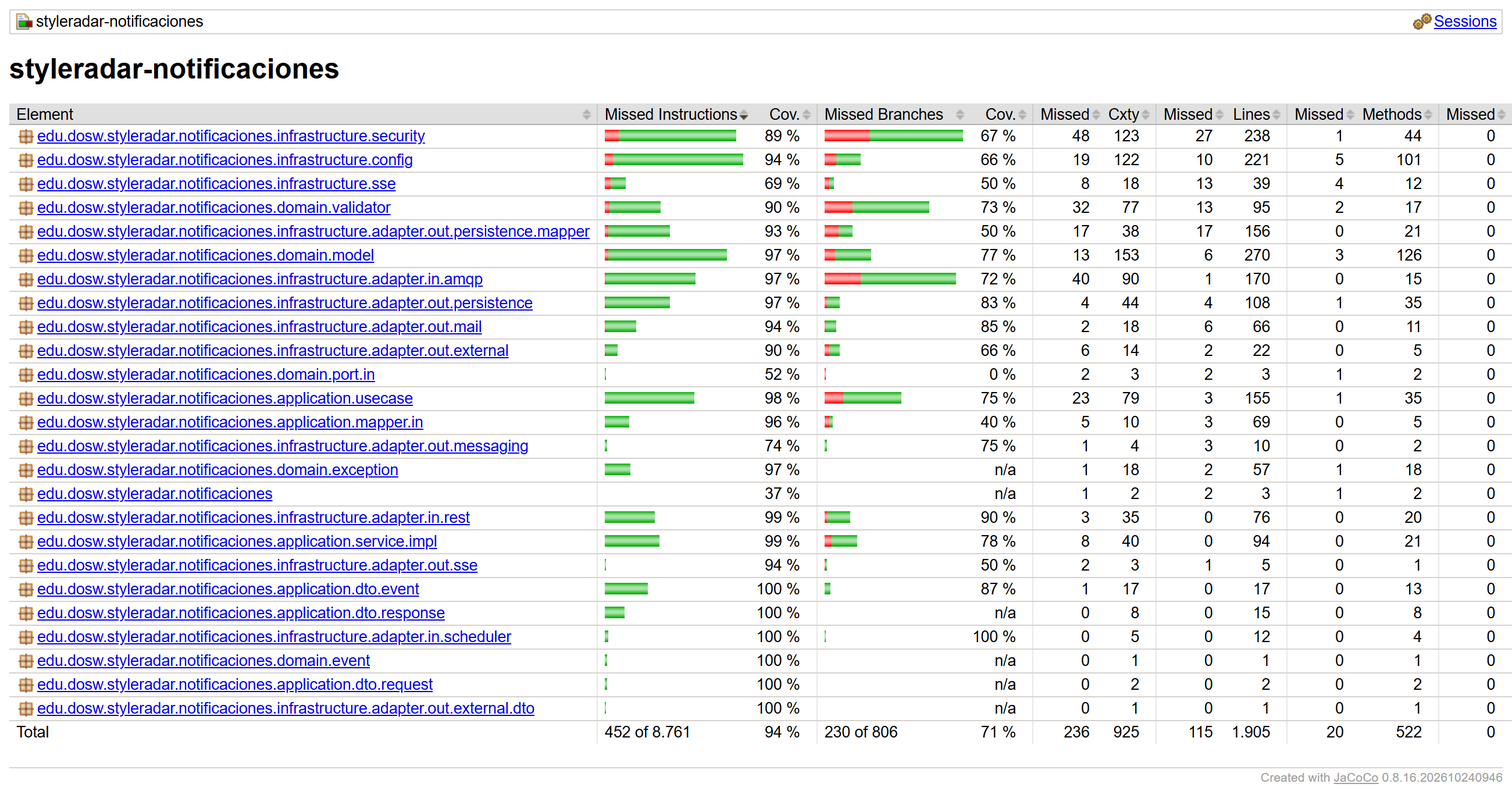
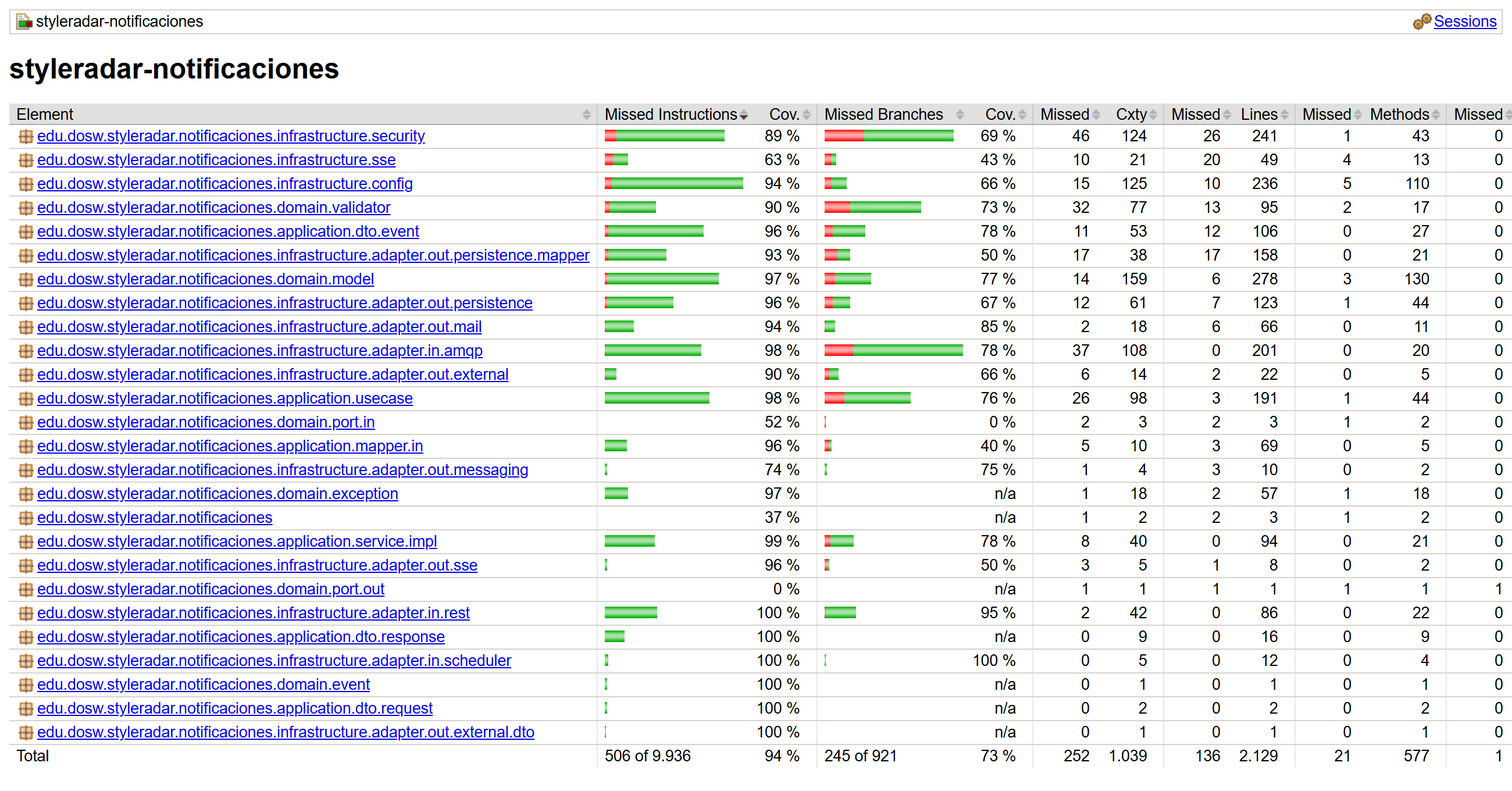
docs(readme): ajustar el README al orden oficial de 12 secciones y crear la seccion de seguridad
Reordena docs/readme al orden oficial, crea la seccion 11 de Seguridad, Habeas Data y OWASP sin declarar certificacion, une equipo y Jira en la 12, unifica el nombre visible ms-Notifications, corrige el texto de portada, declara Maven 3.9+ y Java 21, agrega SR-RF-107 y SR-RF-108 a la tabla de requerimientos y alinea las cifras de cobertura con una sola ejecucion de JaCoCo.

diff --git a/src/test/java/edu/dosw/styleradar/notificaciones/integration/adapter/in/rest/ContratoSwaggerAlineadoTest.java b/src/test/java/edu/dosw/styleradar/notificaciones/integration/adapter/in/rest/ContratoSwaggerAlineadoTest.java
@@ -63,7 +63,7 @@ class ContratoSwaggerAlineadoTest {
         contrato.get("paths").fields().forEachRemaining(ruta -> ruta.getValue().fieldNames()
                 .forEachRemaining(metodo -> swagger.add(metodo.toUpperCase() + " " + ruta.getKey())));
 
-        String readme = Files.readString(Path.of("docs/readme/04-endpoints-y-swagger.md"), StandardCharsets.UTF_8);
+        String readme = Files.readString(Path.of("docs/readme/03-endpoints-y-swagger.md"), StandardCharsets.UTF_8);
         Set<String> documentadas = new HashSet<>();
         Matcher fila = FILA_README.matcher(readme);
         while (fila.find()) {
@@ -76,7 +76,7 @@ class ContratoSwaggerAlineadoTest {
     @Test
     @DisplayName("Los codigos HTTP de cada ruta del README son los del Swagger")
     void codigosDelReadmeIgualesALosDelSwagger() throws Exception {
-        String readme = Files.readString(Path.of("docs/readme/04-endpoints-y-swagger.md"), StandardCharsets.UTF_8);
+        String readme = Files.readString(Path.of("docs/readme/03-endpoints-y-swagger.md"), StandardCharsets.UTF_8);
         Pattern fila = Pattern.compile("\\|\\s*`(GET|POST|PUT|PATCH|DELETE)`\\s*\\|\\s*`(/api/v1/users/[^`]+)`[^\\r\\n]*\\|\\s*((?:`\\d{3}`(?:,\\s*)?)+)\\s*\\|");
         Matcher m = fila.matcher(readme);
         int comprobadas = 0;

diff --git a/docs/readme/11-seguridad-habeas-data-y-owasp.md b/docs/readme/11-seguridad-habeas-data-y-owasp.md
@@ -1,0 +1,66 @@
+[← Volver al índice](../../README.md) · [Todos los README](./)
+
+
+## <img src="https://img.shields.io/badge/11-5600EF?style=for-the-badge" height="20" align="absmiddle" /> 11. SEGURIDAD, HABEAS DATA Y ANÁLISIS OWASP TOP 10
+
+Esta sección describe los controles de seguridad que **están implementados** en `ms-Notifications`, los datos personales que trata y lo que **todavía falta**. Es una revisión del equipo basada en el código y las pruebas del repositorio: **no es una certificación OWASP ni un dictamen jurídico**, y no garantiza ausencia de vulnerabilidades.
+
+### 11.1 Controles implementados
+
+| Área | Control | Dónde se ve |
+| :--- | :--- | :--- |
+| **Autenticación** | `ms-Notifications` no emite tokens: valida el JWT de `ms-Auth` (firma `HS256` con clave compartida en `JWT_SECRET`, vencimiento `exp`). El servicio no arranca sin esa clave. Sin token, vencido, con otra firma o manipulado responde `401`. | [Contrato JWT](../CONTRATO_JWT_AUTENTICACION.md), `SeguridadJwtHttpTest`, `JwtSecretConfigurationTest` |
+| **Autorización por usuario** | El `{id}` de la ruta debe coincidir con el usuario del token; si no coincide responde `403`, salvo el rol administrador de StyleRadar. El alias `me` no se acepta (`403`). Una notificación o alerta de otro usuario no se puede ver, marcar ni eliminar. | `SeguridadJwtHttpTest`, `AlertaControllerAndInfrastructureTest` |
+| **Ticket SSE de corta duración** | El navegador no puede enviar cabeceras con `EventSource`, así que el stream se abre con un ticket de **60 segundos** que solo sirve para ese stream. Un JWT de sesión en `?ticket=` o `?access_token=` se rechaza: el JWT nunca viaja en la URL. | `TicketStreamHttpTest`, [sección 3](03-endpoints-y-swagger.md) |
+| **Límite de solicitudes (429)** | Ventana de un minuto: **120 solicitudes por usuario** (`RATE_LIMIT_PER_MINUTE`); lo que llega sin autenticar se cuenta por IP. Al pasarse responde `429`. | `LimiteDeSolicitudesHttpTest`, `RateLimitFilter` |
+| **Swagger apagado en PROD** | `SWAGGER_ENABLED=false` por defecto en el perfil de producción: no se exponen `/swagger-ui` ni `/v3/api-docs`. | `application-prod.yml` |
+| **Métricas protegidas** | `/actuator/metrics/**` y `/actuator/prometheus` solo para administradores; `/actuator/health` es público para el chequeo de Azure. | `SecurityConfig`, `MetricasActuatorHttpTest` |
+| **CORS y CSRF** | Con `CORS_ALLOWED_ORIGINS` vacío (QA y PROD) las cabeceras CORS las emite solo el API Gateway. La API es sin estado (JWT en cabecera, sin cookies ni sesión), por lo que se exime de CSRF únicamente `/api/**`. | `SecurityConfig`, `CorsHttpTest` |
+| **Mensajería** | Conexión TLS (AMQPS, puerto 5671) al broker central; el certificado raíz de StyleRadar se importa en la imagen. Un payload inválido va directo a la cola de errores sin reintentos. | `Dockerfile`, [sección 4](04-eventos.md) |
+| **Errores** | Las respuestas de error usan `ProblemDetail` con códigos de error estables. | `CodigosDeErrorHttpTest` |
+| **Cadena de suministro** | Dependabot revisa cada semana Maven, GitHub Actions y la imagen base; CodeQL analiza el código en cada PR a `develop` y cada lunes. Esto detecta problemas, **no garantiza cero vulnerabilidades**. | `.github/dependabot.yml`, `.github/workflows/codeql.yml` |
+| **Imagen** | Se ejecuta con un usuario sin privilegios (`appuser`) y con la misma versión de Java que el resto del ciclo (Java 21). | `Dockerfile` |
+
+### 11.2 Habeas Data: datos personales que trata el servicio
+
+El tratamiento de datos personales en Colombia se rige por la **Ley 1581 de 2012** (Habeas Data). El servicio no pide datos al usuario por su cuenta: recibe del resto de la plataforma lo mínimo para avisarle, y el consentimiento y la autorización del titular se gestionan en `ms-Users`.
+
+| Dato | Dónde se guarda | Para qué | Qué pasa al eliminar la cuenta |
+| :--- | :--- | :--- | :--- |
+| Identificador del usuario | Alertas, notificaciones, preferencias, búsquedas | Saber a quién avisar | Se borra todo lo asociado |
+| Correo electrónico | `estados_cuenta_copia` (copia del estado de cuenta) y `correos_pendientes` (destinatario, asunto y cuerpo de los reintentos) | Enviar avisos por correo | Se borran los correos pendientes y el correo de la copia queda vacío |
+| Contenido de las notificaciones | `notificaciones` (título, mensaje y enlace; puede incluir la vista previa de un mensaje de chat o el nombre de una prenda) | Mostrar la bandeja | Se borran |
+| Alertas, búsquedas guardadas y preferencias de aviso | `alertas`, `busquedas_guardadas_copia`, `preferencias_avisos` | Detectar coincidencias y elegir el canal | Se borran |
+
+Cómo se atienden los derechos del titular hoy:
+
+- **Supresión:** cuando `ms-Users` elimina una cuenta publica `styleradar.usuarios.cuenta.eliminada`. El servicio borra los datos de arriba, cierra la conexión en tiempo real del usuario y deja su cuenta marcada como `ELIMINADA` sin correo, para que un evento tardío no le genere avisos (SR-RF-107).
+- **Eliminación por el propio usuario:** puede eliminar una, varias o todas sus notificaciones leídas (SR-RF-108). Es un borrado lógico: la fila se conserva sin mostrarse.
+- **Acceso:** el usuario consulta sus propias alertas, notificaciones y preferencias con la API.
+- **Minimización:** el evento `AlertaCreada` que consume `ms-Statistics` lleva identificadores (alerta, usuario, prenda), no el correo ni el contenido de los mensajes.
+
+### 11.3 Mapa OWASP Top 10 (2021)
+
+| Categoría | Estado | Qué hay y qué falta |
+| :--- | :---: | :--- |
+| **A01** Control de acceso roto | Implementado | `{id}` contra el token, comprobación de propietario en cada alerta y notificación, métricas solo para administradores. |
+| **A02** Fallos criptográficos | Parcial | Firma `HS256` con clave por variable de entorno y TLS al broker; HTTPS lo termina Azure App Service. Falta verificar cifrado en reposo de la base de datos (depende de Azure). |
+| **A03** Inyección | Implementado | JPA con consultas parametrizadas y validación de entrada en los DTO (`@Valid`, `@Size`, `@Positive`). |
+| **A04** Diseño inseguro | Parcial | Límite de solicitudes, ticket SSE de 60 s e idempotencia de eventos con cola de errores. Sin modelado de amenazas formal. |
+| **A05** Configuración incorrecta | Parcial | Swagger apagado en PROD, CORS delegado al Gateway, secretos por variables de entorno. Pendiente rotar las credenciales del broker y restringir su acceso de administración. |
+| **A06** Componentes vulnerables | Parcial | Dependabot y CodeQL activos. No hay escaneo de la imagen de contenedor. |
+| **A07** Fallos de autenticación | Parcial | Se valida firma y vencimiento; la emisión, el cierre de sesión y la protección de credenciales son de `ms-Auth`. |
+| **A08** Integridad de software y datos | Parcial | Payloads de eventos validados y CI con pruebas obligatorias. Sin firma de artefactos. |
+| **A09** Registro y monitoreo | Parcial | Métricas Prometheus protegidas y registros con ids de usuario y evento (en el código revisado no se registran tokens). No hay auditoría centralizada ni alertas de seguridad. |
+| **A10** SSRF | Implementado | La única llamada HTTP saliente es a `ms-ItemCatalog` con una URL fija de configuración (`CATALOG_SERVICE_URL`); no se acepta ninguna URL del usuario. |
+
+### 11.4 Riesgos y pendientes
+
+- **Retención de datos:** no hay purga automática. Las notificaciones eliminadas por el usuario se conservan con su fecha de eliminación y los datos del servicio no tienen un plazo máximo definido.
+- **Derecho de acceso completo:** no existe una exportación de todos los datos de un usuario; solo se pueden consultar por la API.
+- **Clave compartida `HS256`:** cualquier servicio que conozca `JWT_SECRET` podría firmar tokens. Pendiente definir la rotación de la clave y evaluar una firma asimétrica junto con `ms-Auth`.
+- **Credenciales del broker:** rotar la contraseña administrativa de RabbitMQ y cerrar el acceso SSH de su red (tarea operativa, fuera de este repositorio).
+- **Alertas de CodeQL:** revisar en la pestaña Security que la alerta de CSRF quede cerrada tras exceptuar solo `/api/**`.
+- **Registros y base de datos:** falta una auditoría formal de logs y confirmar el cifrado en reposo y las copias de seguridad.
+- **Pruebas de seguridad:** no se ha hecho una prueba de penetración independiente.
+- **Redis:** `docker-compose.yml` levanta Redis, pero el servicio no lo usa (SSE en memoria). Mientras no se decida retirarlo, se documenta como dependencia local no usada.

diff --git a/README.md b/README.md
@@ -4,7 +4,7 @@
     <img src="https://raw.githubusercontent.com/JUANNICOLASA/Frontend-Style-Radar/main/styleradar-frontend-v3/assets/logo/styleradar-logo.svg" width="340" alt="StyleRadar Logo Oficial" />
   </a>
 
-  <h1>STYLE<font color="#5600EF">RADAR</font> &nbsp;·&nbsp; <code>GJ-Notification-Service</code></h1>
+  <h1>STYLE<font color="#5600EF">RADAR</font> &nbsp;·&nbsp; <code>ms-Notifications</code></h1>
 
   <p align="center">
     <img src="https://img.shields.io/badge/EQUIPO-Guatoque_Jiraguas_(GJ)-12063A?style=for-the-badge" alt="Equipo" />
@@ -19,29 +19,29 @@
 
   <p align="center">
     <strong><font color="#5600EF">Descubre tu estilo. En tu ciudad.</font></strong><br />
-    <em>Plataforma de moda local con inventario multi-sede geolocalizado en tiempo real y probador virtual para Bogotá.</em>
+    <em>Servicio de notificaciones y alertas de StyleRadar: avisa cuando una prenda vuelve a estar disponible o coincide con una búsqueda guardada y de la actividad de otros módulos, con bandeja, tiempo real por SSE, correo y consumo y publicación de eventos.</em>
   </p>
 
   <p align="center">
     <a href="https://github.com/StyleRadar1/GJ-Notification-Service/actions/workflows/ci-qa.yml">
       <img src="https://github.com/StyleRadar1/GJ-Notification-Service/actions/workflows/ci-qa.yml/badge.svg?branch=develop" alt="CI / QA Pipeline Status" />
     </a>
-    <a href="docs/readme/04-endpoints-y-swagger.md">
+    <a href="docs/readme/03-endpoints-y-swagger.md">
       <img src="https://img.shields.io/badge/Swagger_UI-ms--Notifications_(:8300)-5600EF?style=for-the-badge&logo=swagger&logoColor=white" alt="Swagger UI ms-Notifications" />
     </a>
-    <a href="docs/readme/04-endpoints-y-swagger.md">
+    <a href="docs/readme/03-endpoints-y-swagger.md">
       <img src="https://img.shields.io/badge/OpenAPI-3.0-16A34A?style=for-the-badge&logo=openapi-initiative&logoColor=white" alt="OpenAPI 3.0" />
     </a>
     <a href="target/site/jacoco/index.html">
       <img src="https://img.shields.io/badge/JaCoCo_Coverage-%E2%89%A5_85%25-16A34A?style=for-the-badge&logo=codecov&logoColor=white" alt="Coverage" />
     </a>
-    <a href="docs/readme/06-tecnologias-y-dependencias.md">
+    <a href="docs/readme/05-tecnologias-y-dependencias.md">
       <img src="https://img.shields.io/badge/Java-21_LTS-12063A?style=for-the-badge&logo=openjdk&logoColor=C4B5FD" alt="Java 21" />
     </a>
-    <a href="docs/readme/06-tecnologias-y-dependencias.md">
+    <a href="docs/readme/05-tecnologias-y-dependencias.md">
       <img src="https://img.shields.io/badge/Spring_Boot-3.5.x-12063A?style=for-the-badge&logo=spring&logoColor=C4B5FD" alt="Spring Boot 3.5" />
     </a>
-    <a href="docs/readme/07-ejecucion-local-y-docker.md">
+    <a href="docs/readme/06-ejecucion-local-y-docker.md">
       <img src="https://img.shields.io/badge/Docker-OCI_Container-12063A?style=for-the-badge&logo=docker&logoColor=C4B5FD" alt="Docker OCI" />
     </a>
   </p>
@@ -54,14 +54,14 @@
 ## <img src="https://img.shields.io/badge/ÍNDICE-5600EF?style=for-the-badge" height="20" align="absmiddle" /> ÍNDICE DE CONTENIDOS
 
 1. [Nombre del servicio y su bounded context](docs/readme/01-nombre-y-bounded-context.md)
-2. [Equipo y responsables](docs/readme/02-equipo-y-responsables.md)
-3. [Arquitectura hexagonal con su diagrama](docs/readme/03-arquitectura-hexagonal.md)
-4. [Endpoints y enlace a Swagger](docs/readme/04-endpoints-y-swagger.md)
-5. [Eventos que publica y consume](docs/readme/05-eventos.md)
-6. [Tecnologías y dependencias](docs/readme/06-tecnologias-y-dependencias.md)
-7. [Cómo ejecutar local y con Docker](docs/readme/07-ejecucion-local-y-docker.md)
-8. [Variables de entorno](docs/readme/08-variables-de-entorno.md)
-9. [Pruebas y cobertura](docs/readme/09-pruebas-y-cobertura.md)
-10. [CI/CD con el badge del pipeline](docs/readme/10-ci-cd.md)
-11. [Ramas y cómo contribuir](docs/readme/11-ramas-y-contribucion.md)
-12. [Enlace a la épica en Jira](docs/readme/12-epica-jira.md)
+2. [Arquitectura hexagonal con sus diagramas](docs/readme/02-arquitectura-hexagonal.md)
+3. [Endpoints y enlace a Swagger](docs/readme/03-endpoints-y-swagger.md)
+4. [Eventos que publica y consume](docs/readme/04-eventos.md)
+5. [Tecnologías y dependencias](docs/readme/05-tecnologias-y-dependencias.md)
+6. [Cómo ejecutar local y con Docker](docs/readme/06-ejecucion-local-y-docker.md)
+7. [Variables de entorno](docs/readme/07-variables-de-entorno.md)
+8. [Pruebas y cobertura](docs/readme/08-pruebas-y-cobertura.md)
+9. [CI/CD con el badge del pipeline](docs/readme/09-ci-cd.md)
+10. [Ramas y cómo contribuir](docs/readme/10-ramas-y-contribucion.md)
+11. [Seguridad, Habeas Data y análisis OWASP Top 10](docs/readme/11-seguridad-habeas-data-y-owasp.md)
+12. [Equipo, responsables y enlace a la épica en Jira](docs/readme/12-equipo-responsables-y-epica-jira.md)

diff --git a/docs/readme/12-equipo-responsables-y-epica-jira.md b/docs/readme/12-equipo-responsables-y-epica-jira.md
@@ -1,7 +1,23 @@
 [← Volver al índice](../../README.md) · [Todos los README](./)
 
 
-## <img src="https://img.shields.io/badge/12-5600EF?style=for-the-badge" height="20" align="absmiddle" /> 12. ENLACE A LA ÉPICA EN JIRA
+## <img src="https://img.shields.io/badge/12-5600EF?style=for-the-badge" height="20" align="absmiddle" /> 12. EQUIPO, RESPONSABLES Y ENLACE A LA ÉPICA EN JIRA
+
+### Equipo y responsables
+
+Desarrollado y mantenido por el **Squad `Paquete 3 · Notificaciones y Chat`** para la asignatura DOSW 2026.
+
+<div align="center">
+
+| Rol | Nombre Completo |
+| :---: | :---: |
+| **Líder de Squad** | `Paula Diaz` |
+| **Líder de Backend** | `Jose Martinez` |
+| **Desarrollo Microservicio Notificaciones** | `Oscar Lasso` |
+
+</div>
+
+### Enlace a la épica en Jira
 
 El seguimiento de requerimientos, evidencias y artefactos de entrega se centraliza en los siguientes enlaces oficiales:
 
@@ -42,4 +58,6 @@ Los actores son los cuatro oficiales y se muestran en el [diagrama de casos de u
 | `SR-RF-104` | Consultar la bandeja de notificaciones | Usuario comprador, administrador de almacén y representante de fundación aliada | Permite listar con paginación (`page`, `size`) y filtro único `read` (`true` leídas, `false` no leídas), contar no leídas, marcar como leída (individual/todas) y abrir el stream SSE mediante ticket de 60 s (`POST /stream-ticket`) con reconexión `Last-Event-ID` (NOT-12, NOT-13, NOT-15, GJ-62, GJ-118). |
 | `SR-RF-105` | Elegir el canal de cada tipo de aviso | Usuario comprador, administrador de almacén y representante de fundación aliada | Permite consultar y elegir por cada uno de los 9 valores de `TipoNotificacion` entre `SOLO_PLATAFORMA` (por defecto) y `CORREO_Y_PLATAFORMA` (GJ-64). |
 | `SR-RF-106` | Avisar la actividad de otros módulos | Usuario comprador, administrador de almacén y representante de fundación aliada (lo origina también el administrador StyleRadar) | Genera notificaciones idempotentes por `(evento_id, usuario_id)` al recibir eventos de `ms-Chat`, `ms-Donations`, `ms-ItemCatalog`, `ms-Payment` y `ms-Stores` (fundación desactivada), excluyendo cuentas en estado `INACTIVO`, `BLOQUEADO` o `SUSPENDIDO` (NOT-09, NOT-14, GJ-61, GJ-65, GJ-117). |
+| `SR-RF-107` | Limpiar las notificaciones al eliminar una cuenta o retirar una prenda | Usuario comprador (lo originan `ms-Users` y `ms-ItemCatalog`) | Al llegar `styleradar.usuarios.cuenta.eliminada` se borran las notificaciones, alertas, preferencias, correos pendientes y búsquedas del usuario, se cierra su campana y su cuenta queda `ELIMINADA` sin correo. Al retirar una prenda se desactivan sus alertas, se borran las notificaciones no leídas de reposición y coincidencia y se quita el enlace a las leídas. Ambos procesos son idempotentes. |
+| `SR-RF-108` | Eliminar notificaciones de la bandeja | Usuario comprador, administrador de almacén y representante de fundación aliada | Elimina una notificación (`DELETE .../notifications/{notificationId}`, `204`), varias (`?ids=1,2,3`, hasta 100) o todas las leídas (`?read=true`). Borrado lógico: deja de aparecer en la lista, el contador y el stream. Una segunda eliminación responde `404` y la de otro usuario `403`. |
 | `SR-RNF-15` | Resiliencia e idempotencia en consumidores de eventos | No aplica (requerimiento no funcional) | 3 entregas totales con backoff ante fallos transitorios, rechazo inmediato sin reencolar hacia `styleradar.notificaciones.dlq` ante payloads inválidos, restricciones únicas en PostgreSQL 16 y errores HTTP con campo `code` estable (`CodigoError`). |

diff --git a/docs/readme/08-pruebas-y-cobertura.md b/docs/readme/08-pruebas-y-cobertura.md
@@ -1,7 +1,7 @@
 [← Volver al índice](../../README.md) · [Todos los README](./)
 
 
-## <img src="https://img.shields.io/badge/09-5600EF?style=for-the-badge" height="20" align="absmiddle" /> 9. PRUEBAS Y COBERTURA (≥ 85%)
+## <img src="https://img.shields.io/badge/08-5600EF?style=for-the-badge" height="20" align="absmiddle" /> 8. PRUEBAS Y COBERTURA (≥ 85%)
 
 El proyecto exige una cobertura de líneas mínima del **85%** verificada automáticamente mediante el plugin de **JaCoCo** durante `mvn verify`.
 
@@ -22,7 +22,7 @@ mvn jacoco:report
 </p>
 
 <p align="center">
-  <sub>Reporte real de JaCoCo 0.8.16 (<code>target/site/jacoco/index.html</code>) generado con <code>mvn clean verify</code> el 20/11/2026: 94 % de instrucciones, 71 % de ramas y 1.905 líneas medidas, de las que 115 quedan sin cubrir (94,0 % de líneas).</sub>
+  <sub>Reporte real de JaCoCo 0.8.16 (<code>target/site/jacoco/index.html</code>) generado con <code>mvn verify</code> el 25/11/2026 sobre <code>develop</code> (commit <code>bb48f1c</code>): 94 % de instrucciones, 73 % de ramas y 2.129 líneas medidas, de las que 136 quedan sin cubrir (93,6 % de líneas).</sub>
 </p>
 
 
@@ -35,7 +35,7 @@ mvn jacoco:report
 | **Pruebas de Integración y Contrato** | Controladores REST, Seguridad JWT, Flyway, Repositorios JPA, Consumidores AMQP, SSE y correo | Spring Boot Test, MockMvc, H2 PostgreSQL Mode, GreenMail | `src/test/java/.../integration/` | ≥ 85% |
 | **Pruebas con RabbitMQ real** | Publicación de `AlertaCreada` y consumo de eventos contra un broker real | Testcontainers (requieren Docker; en un equipo sin Docker se omiten y las corre el CI) | `src/test/java/.../integration/messaging/` | — |
 
-Estado actual (24/11/2026): **324 pruebas ejecutadas, 0 fallos y 0 errores; cobertura de líneas 93,6 %** (2.123 líneas medidas, 136 sin cubrir; el mínimo exigido es 85 %). Hay 14 pruebas que necesitan Docker (Testcontainers con RabbitMQ y PostgreSQL reales): en un equipo sin Docker se omiten y las ejecuta el CI.
+Estado actual (25/11/2026, la misma ejecución de la captura): **325 pruebas, 0 fallos y 0 errores; cobertura de líneas 93,6 %** (2.129 líneas medidas, 136 sin cubrir; el mínimo exigido es 85 %). Hay 14 pruebas que necesitan Docker (Testcontainers con RabbitMQ y PostgreSQL reales): en un equipo sin Docker se omiten y las ejecuta el CI.
 
 ### Pruebas de Arquitectura Hexagonal (ArchUnit)
 

diff --git a/docs/readme/06-ejecucion-local-y-docker.md b/docs/readme/06-ejecucion-local-y-docker.md
@@ -1,12 +1,12 @@
 [← Volver al índice](../../README.md) · [Todos los README](./)
 
 
-## <img src="https://img.shields.io/badge/07-5600EF?style=for-the-badge" height="20" align="absmiddle" /> 7. CÓMO EJECUTAR LOCAL Y CON DOCKER
+## <img src="https://img.shields.io/badge/06-5600EF?style=for-the-badge" height="20" align="absmiddle" /> 6. CÓMO EJECUTAR LOCAL Y CON DOCKER
 
 ### Prerrequisitos de Entorno
 
-* **Java Development Kit (JDK):** Versión 21 LTS instalada (`java -version`).
-* **Apache Maven:** Versión 3.9+ instalada (`mvn -version`).
+* **Java Development Kit (JDK):** Versión 21 LTS instalada (`java -version`). Es la misma versión del `pom.xml`, de los workflows y de la imagen Docker.
+* **Apache Maven:** Versión 3.9+ instalada (`mvn -version`). El repositorio no incluye Maven Wrapper (`mvnw`), así que todos los comandos usan `mvn`.
 * **Docker Engine & Docker Compose:** Versión 24+ en ejecución (`docker --version`).
 
 ### Ejecución Local con Maven (Perfil Dev)
@@ -55,7 +55,7 @@ curl -s http://localhost:8300/actuator/health
 # Esperado: {"status":"UP"}
 ```
 
-Una vez arriba, Swagger UI queda en `http://localhost:8300/swagger-ui/index.html` y las pruebas se corren como se explica en la [sección 9](09-pruebas-y-cobertura.md).
+Una vez arriba, Swagger UI queda en `http://localhost:8300/swagger-ui/index.html` y las pruebas se corren como se explica en la [sección 8](08-pruebas-y-cobertura.md).
 
 ### Comprobación de salud en QA
 

diff --git a/docs/readme/02-arquitectura-hexagonal.md b/docs/readme/02-arquitectura-hexagonal.md
@@ -1,7 +1,7 @@
 [← Volver al índice](../../README.md) · [Todos los README](./)
 
 
-## <img src="https://img.shields.io/badge/03-5600EF?style=for-the-badge" height="20" align="absmiddle" /> 3. ARQUITECTURA HEXAGONAL CON SU DIAGRAMA
+## <img src="https://img.shields.io/badge/02-5600EF?style=for-the-badge" height="20" align="absmiddle" /> 2. ARQUITECTURA HEXAGONAL CON SUS DIAGRAMAS
 
 El microservicio implementa **Arquitectura Hexagonal (Puertos y Adaptadores)** combinada con **Domain-Driven Design (DDD)**. El núcleo de negocio permanece 100% puro y aislado de frameworks, bases de datos o brokers de mensajería.
 
@@ -201,7 +201,7 @@ flowchart LR
 
 ### Verificación automática de la arquitectura
 
-Las reglas del hexágono (el dominio sin frameworks, la aplicación sin infraestructura, puertos como interfaces y adaptadores aislados) se comprueban con ArchUnit en `ArquitecturaHexagonalTest`, que se ejecuta en cada `mvn verify` y en el CI. El detalle de las 12 reglas está en [9. Pruebas y cobertura](./09-pruebas-y-cobertura.md).
+Las reglas del hexágono (el dominio sin frameworks, la aplicación sin infraestructura, puertos como interfaces y adaptadores aislados) se comprueban con ArchUnit en `ArquitecturaHexagonalTest`, que se ejecuta en cada `mvn verify` y en el CI. El detalle de las 12 reglas está en [8. Pruebas y cobertura](./08-pruebas-y-cobertura.md).
 
 ### Estructura Oficial de Paquetes en `src/main/java/`
 

diff --git a/docs/readme/05-tecnologias-y-dependencias.md b/docs/readme/05-tecnologias-y-dependencias.md
@@ -1,13 +1,14 @@
 [← Volver al índice](../../README.md) · [Todos los README](./)
 
 
-## <img src="https://img.shields.io/badge/06-5600EF?style=for-the-badge" height="20" align="absmiddle" /> 6. TECNOLOGÍAS Y DEPENDENCIAS
+## <img src="https://img.shields.io/badge/05-5600EF?style=for-the-badge" height="20" align="absmiddle" /> 5. TECNOLOGÍAS Y DEPENDENCIAS
 
 El stack del microservicio cumple con el estándar unificado de arquitectura de StyleRadar:
 
 | Capa / Componente | Tecnología | Versión | Justificación Técnica |
 | :--- | :--- | :--- | :--- |
 | **Lenguaje Core** | Java LTS | `21` | Records inmutables, Pattern Matching y alto rendimiento en procesamiento de eventos. |
+| **Construcción** | Apache Maven | `3.9+` | Compila, prueba y empaqueta (`mvn verify`). El repositorio no incluye Maven Wrapper (`mvnw`): se usa el `mvn` instalado, el mismo que usan CI, CD y el Dockerfile (imagen `maven:3.9-eclipse-temurin-21`). |
 | **Framework Empresarial** | Spring Boot | `3.5.16` | Gestión declarativa de configuración, ecosistema nativo Spring Web, Security, Data JPA y AMQP. |
 | **Cliente HTTP Declarativo** | Spring Cloud OpenFeign | `2025.0.3` (Spring Cloud) | Validación síncrona de prenda agotada contra `ms-ItemCatalog` (NOT-10). |
 | **Base de Datos** | PostgreSQL | `16` | Integridad transaccional ACID y restricción única `(alerta_id, item_id, ciclo_reposicion)`. |

diff --git a/docs/TABLA_EQUIVALENCIA_PRUEBAS.md b/docs/TABLA_EQUIVALENCIA_PRUEBAS.md
@@ -10,8 +10,8 @@ Esta tabla reemplaza a la de equivalencia: lista **todas las pruebas que tiene h
 
 | Dato | Valor |
 | :--- | :--- |
-| Pruebas | 67 (33 unitarias y 34 de integración) |
-| Cobertura de líneas (JaCoCo) | 91,6 %, con un mínimo exigido de 85 % en `mvn verify` |
+| Pruebas listadas en esta tabla | 67 (33 unitarias y 34 de integración) al cerrar GJ-36 y GJ-51; el total vigente del servicio está en la [sección 8 del README](readme/08-pruebas-y-cobertura.md) |
+| Cobertura de líneas (JaCoCo) | Mínimo exigido de 85 % en `mvn verify`; la cifra vigente y su captura están en la [sección 8 del README](readme/08-pruebas-y-cobertura.md) |
 | Pruebas con RabbitMQ real (Testcontainers) | 9; se omiten sin Docker y las ejecuta el CI |
 
 Ruta de las pruebas: `src/test/java/edu/dosw/styleradar/notificaciones/`.

diff --git a/docs/readme/09-ci-cd.md b/docs/readme/09-ci-cd.md
@@ -1,7 +1,7 @@
 [← Volver al índice](../../README.md) · [Todos los README](./)
 
 
-## <img src="https://img.shields.io/badge/10-5600EF?style=for-the-badge" height="20" align="absmiddle" /> 10. CI/CD CON EL BADGE DEL PIPELINE
+## <img src="https://img.shields.io/badge/09-5600EF?style=for-the-badge" height="20" align="absmiddle" /> 9. CI/CD CON EL BADGE DEL PIPELINE
 
 El ciclo de vida del software implementa integración continua y entrega continua automatizada mediante **GitHub Actions**. Los flujos viven en [`.github/workflows/`](../../.github/workflows/) y las actualizaciones de dependencias las propone Dependabot ([`.github/dependabot.yml`](../../.github/dependabot.yml)).
 

diff --git a/docs/readme/10-ramas-y-contribucion.md b/docs/readme/10-ramas-y-contribucion.md
@@ -1,7 +1,7 @@
 [← Volver al índice](../../README.md) · [Todos los README](./)
 
 
-## <img src="https://img.shields.io/badge/11-5600EF?style=for-the-badge" height="20" align="absmiddle" /> 11. RAMAS Y CÓMO CONTRIBUIR
+## <img src="https://img.shields.io/badge/10-5600EF?style=for-the-badge" height="20" align="absmiddle" /> 10. RAMAS Y CÓMO CONTRIBUIR
 
 El equipo sigue el modelo de trabajo **GitFlow adaptado para microservicios**. Las ramas `main` y `develop` están protegidas: no admiten *force-push* y solo reciben cambios mediante Pull Requests con al menos una aprobación y el CI en verde.
 

diff --git a/docs/readme/04-eventos.md b/docs/readme/04-eventos.md
@@ -1,7 +1,7 @@
 [← Volver al índice](../../README.md) · [Todos los README](./)
 
 
-## <img src="https://img.shields.io/badge/05-5600EF?style=for-the-badge" height="20" align="absmiddle" /> 5. EVENTOS QUE PUBLICA Y CONSUME
+## <img src="https://img.shields.io/badge/04-5600EF?style=for-the-badge" height="20" align="absmiddle" /> 4. EVENTOS QUE PUBLICA Y CONSUME
 
 La comunicación asíncrona entre microservicios se orquesta a través de **RabbitMQ 3.13** utilizando Topic Exchanges durables y enrutamiento de fallos hacia una cola de errores (Dead Letter Queue) conforme a `SR-RNF-15`.
 
